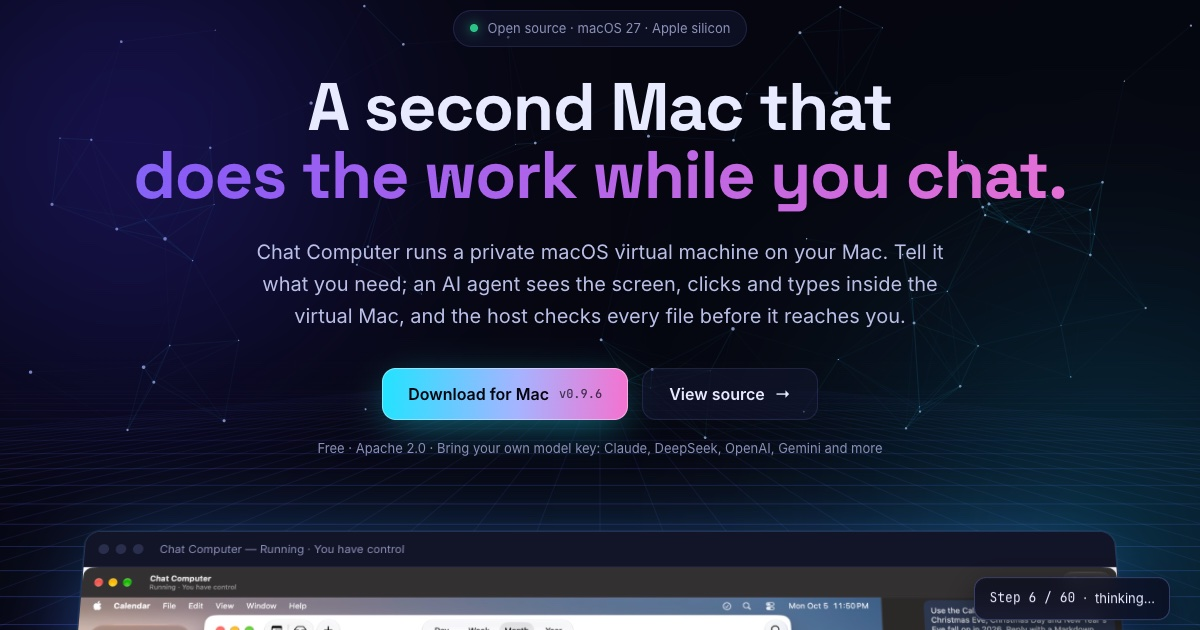
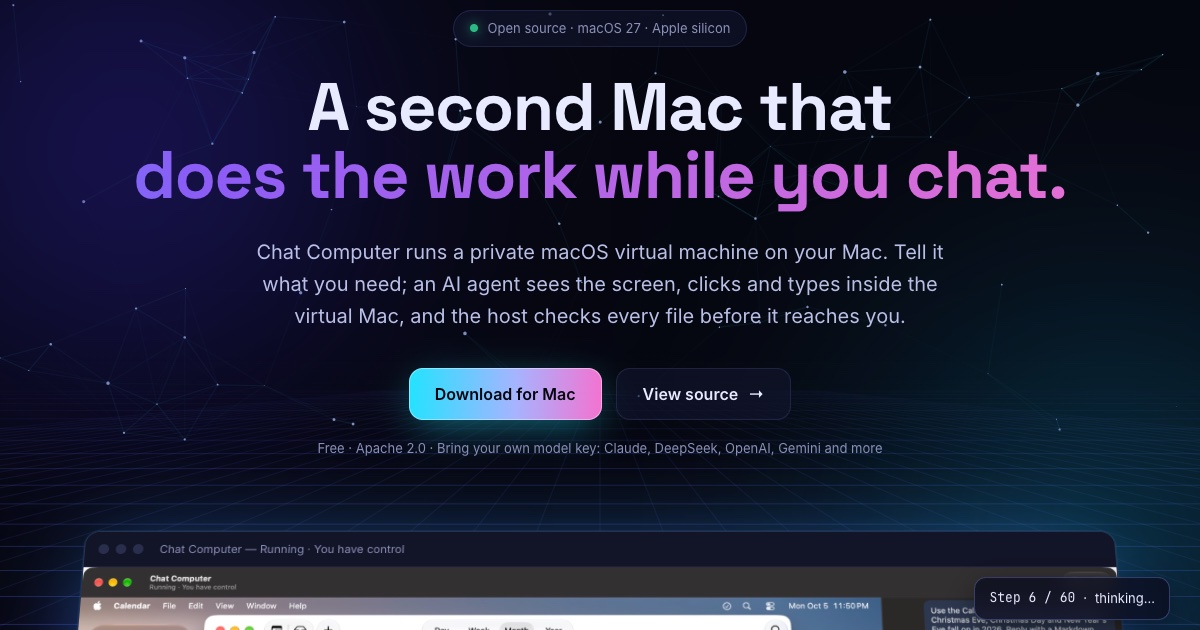
No version numbers on the site

Changed region(s): [[0.3083, 0.573, 0.6475, 0.6937]]

diff --git a/index.html b/index.html
@@ -45,7 +45,7 @@
     <h1 class="reveal"><span data-i18n="hero.h1a">A second Mac that</span><br><span class="grad" data-i18n="hero.h1b">does the work while you chat.</span></h1>
     <p class="lead reveal" data-i18n="hero.lead">Chat Computer runs a private macOS virtual machine on your Mac. Tell it what you need; an AI agent sees the screen, clicks and types inside the virtual Mac, and the host checks every file before it reaches you.</p>
     <div class="cta reveal">
-      <a class="btn primary" id="dl-hero" href="https://github.com/chatcomputer/chatcomputer/releases" target="_blank" rel="noopener"><span data-i18n="hero.download">Download for Mac</span> <small class="ver" data-version></small></a>
+      <a class="btn primary" id="dl-hero" href="https://github.com/chatcomputer/chatcomputer/releases" target="_blank" rel="noopener"><span data-i18n="hero.download">Download for Mac</span></a>
       <a class="btn ghost" href="https://github.com/chatcomputer/chatcomputer" target="_blank" rel="noopener"><span data-i18n="hero.source">View source</span> →</a>
     </div>
     <p class="fine reveal" data-i18n="hero.fine">Free · Apache 2.0 · Bring your own model key: Claude, DeepSeek, OpenAI, Gemini and more</p>
@@ -176,7 +176,7 @@
       <img src="assets/icon-512.png" alt="" width="96" height="96">
       <h2 data-i18n="dl.h2">Get Chat Computer</h2>
       <p class="sub" data-i18n="dl.sub">Signed and notarized by Apple. Setup downloads and installs macOS in the virtual machine (about 26 GB), creates its account and grants the agent its permissions, all without you clicking through.</p>
-      <a class="btn primary big" id="dl-main" href="https://github.com/chatcomputer/chatcomputer/releases" target="_blank" rel="noopener"><span data-i18n="hero.download">Download for Mac</span> <small class="ver" data-version></small></a>
+      <a class="btn primary big" id="dl-main" href="https://github.com/chatcomputer/chatcomputer/releases" target="_blank" rel="noopener"><span data-i18n="hero.download">Download for Mac</span></a>
       <div class="brew">
         <p data-i18n="dl.brew">Or install with Homebrew, which also puts the chatcomputer command on your PATH:</p>
         <div class="cmd"><code>brew install --cask chatcomputer/tap/chatcomputer</code><button type="button" data-copy="brew install --cask chatcomputer/tap/chatcomputer" aria-label="Copy"><span data-i18n="dl.copy">Copy</span></button></div>

diff --git a/style.css b/style.css
@@ -92,8 +92,6 @@ h1 { font-size: clamp(38px, 5.6vw, 76px); line-height: 1.02; margin-top: 26px; f
 .btn.ghost { border: 1px solid var(--line); background: var(--glass); }
 .btn.ghost:hover { border-color: rgba(34, 227, 255, .5); }
 .btn.big { height: 58px; padding: 0 34px; font-size: 17px; margin-top: 8px; }
-.ver { font: 500 12px "JetBrains Mono", monospace; opacity: .7; }
-.ver:empty { display: none; }
 .fine { color: var(--dim); font-size: 13px; margin-top: 18px; }
 
 /* Hero stage */

diff --git a/main.js b/main.js
@@ -260,7 +260,6 @@
     .then(([release]) => {
       if (!release) return;
       // The release page: notes, the zip and its SHA-256 in one place.
-      document.querySelectorAll("[data-version]").forEach((el) => { el.textContent = release.tag_name; });
       if (release.html_url) ["dl-hero", "dl-main"].forEach((id) => { document.getElementById(id).href = release.html_url; });
     })
     .catch(() => {});
